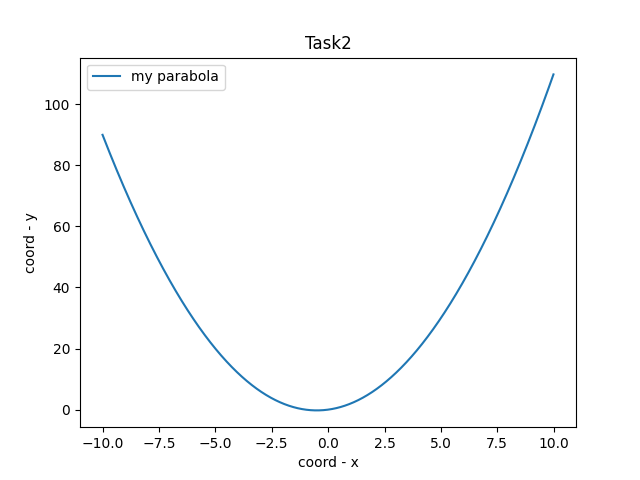
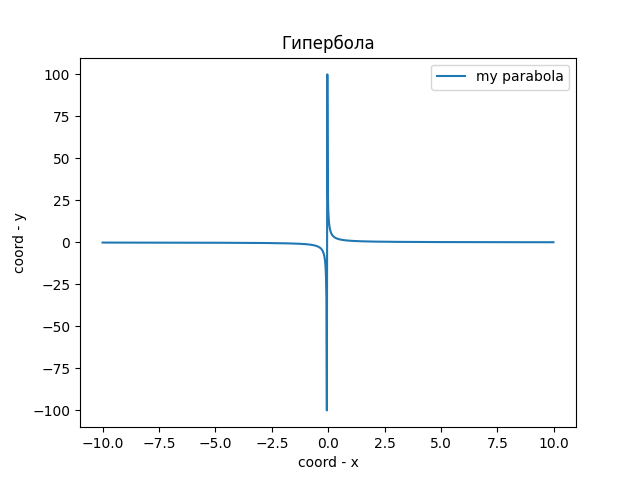
25/12

diff --git a/matplotlib_dz_3.py b/matplotlib_dz_3.py
@@ -10,12 +10,12 @@ def circle_plotter(R=10):
     # Переход к неявнозаданным координатам
     X, Y = np.meshgrid(x, y)
 
-    fxy = X**2 + Y**2 - R**2  # Уравнение окружности
+    fxy = (X**2 / R**2) + (Y**2 / R**2) # Уравнение окружности
 
     # Команда рисования
     plt.contour(X, Y, fxy, levels=[0])
     # plt.axis('equal')
-    plt.title('Task3')
+    plt.title('Эллипс')
     plt.savefig('fig_dz_3.png')
 
 

diff --git a/matplotlib_dz_2.py b/matplotlib_dz_2.py
@@ -1,15 +1,17 @@
+
 import matplotlib.pyplot as plt
 import numpy as np
 
 
 def parabola_plotter(a=1, b=1, c=0):
 
-    x = np.arange(-10, 10, 0.01)
-    y = a*x**2 + b*x + c
+    x = np.arange(-10, 10, 0.02)
+    y = 1 / (x + 0.05)
 
+    plt.plot(x, y, label='my parabola')
     plt.xlabel('coord - x')
     plt.ylabel('coord - y')
-    plt.title('Task2')
+    plt.title('Гипербола')
     plt.legend()
 
     plt.savefig('fig_dz_2.png')

diff --git a/matplotlib_dz_4.py b/matplotlib_dz_4.py
@@ -1,0 +1,13 @@
+import matplotlib.pyplot as plt
+import numpy as np
+
+b = 0.3
+
+phi = np.arange(0, 8*np.pi, 0.1)
+r = np.e ** (b * phi)
+
+x = r * np.cos(phi)
+y = r * np.sin(phi)
+
+plt.plot(x, y, label='my parabola')
+plt.savefig('fig_dz_4.png')
